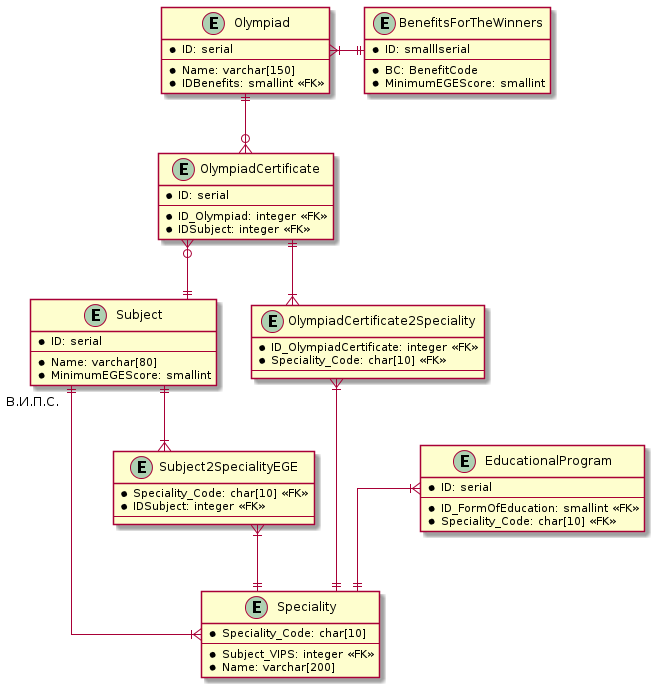
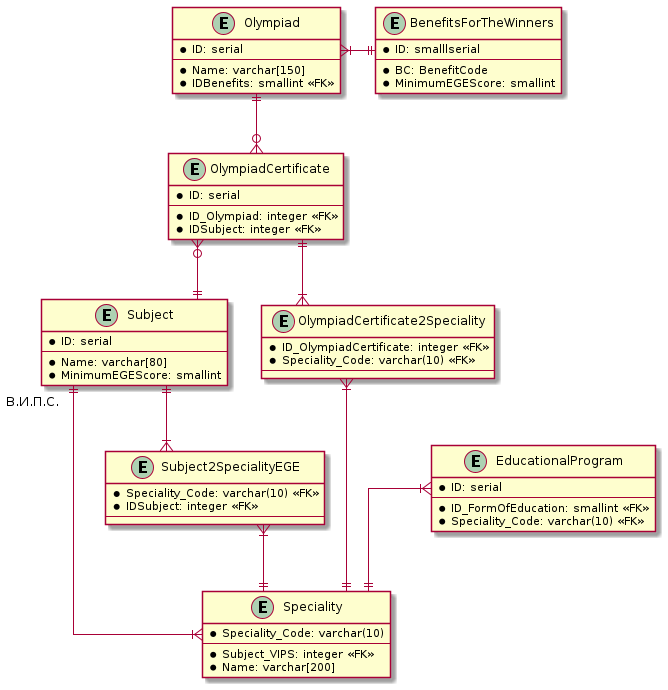
Исправлена объединенная реляционная схема. У сущности Speciality и EducationalProgram изменен тип данных атрибутов Speciality_Code.

diff --git a/README.md b/README.md
@@ -140,7 +140,7 @@ Cм. файлы `*.py` в каталоге `ЛР2`
 
 ![Список доступных таблиц](./ЛР3/screen1.png)
 
-Выведем содержимое таблицы `branch`:
+Выведем содержимое таблицы `faculty`:
 
 ![Таблица Branch](./ЛР3/screen3.png)
 
